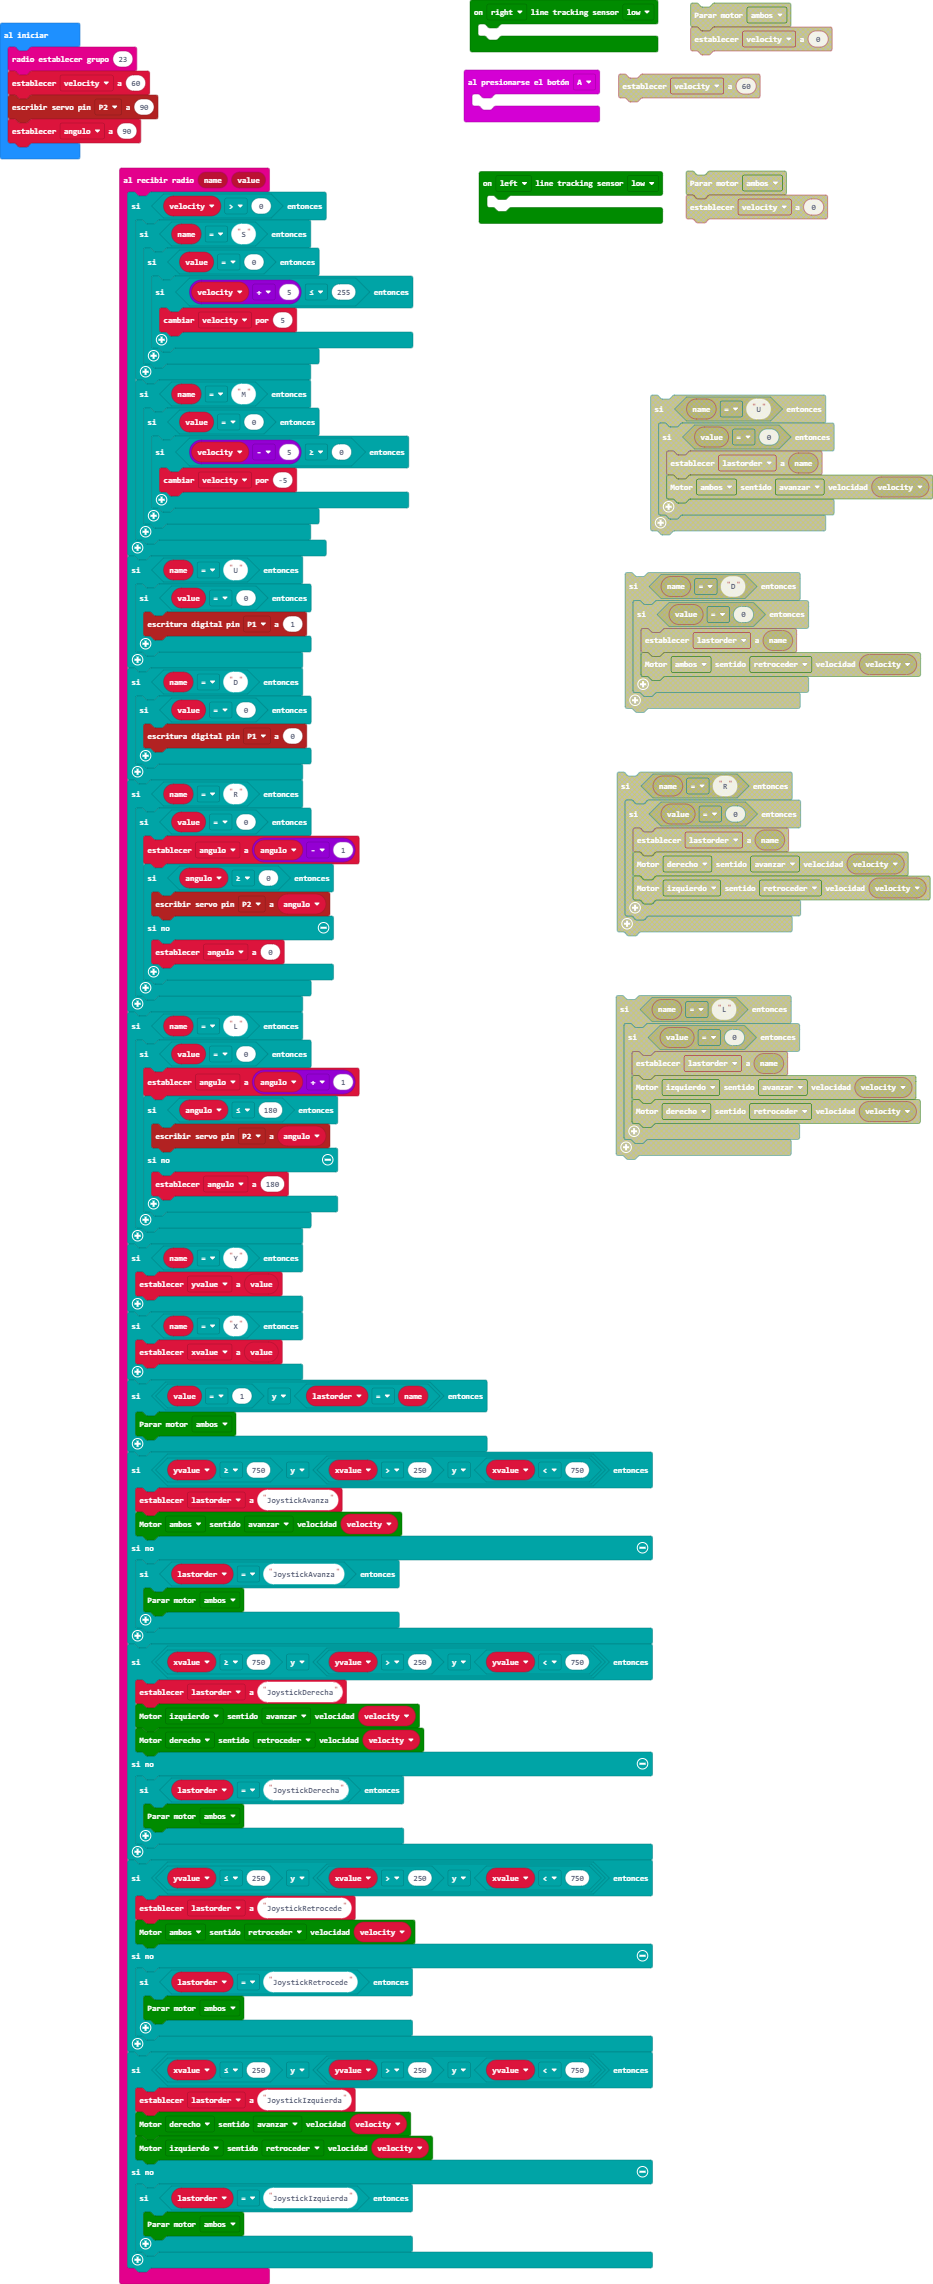
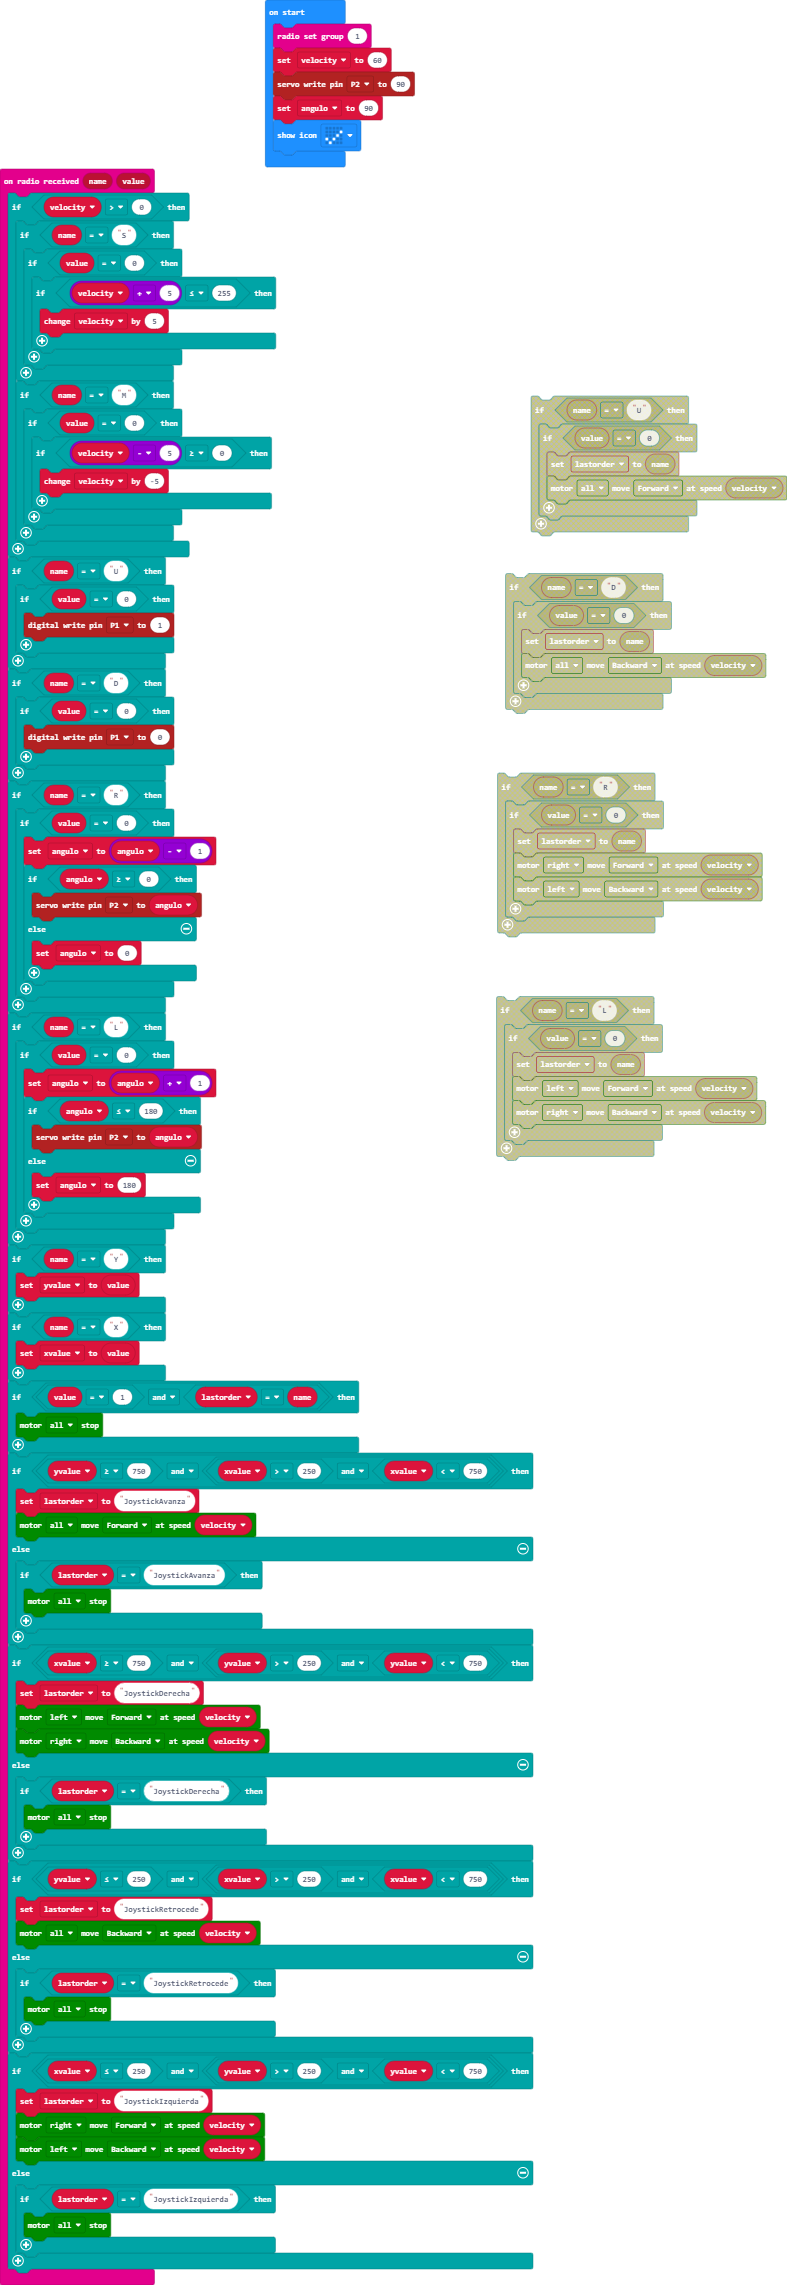
Update main.blocks, main.ts

diff --git a/main.ts b/main.ts
@@ -1,12 +1,3 @@
-maqueen.ltEvent(maqueen.Patrol1.PatrolRight, maqueen.Voltage.Low, function () {
-	
-})
-input.onButtonPressed(Button.A, function () {
-	
-})
-maqueen.ltEvent(maqueen.Patrol1.PatrolLeft, maqueen.Voltage.Low, function () {
-	
-})
 radio.onReceivedValue(function (name, value) {
     if (velocity > 0) {
         if (name == "S") {
@@ -103,7 +94,8 @@ let xvalue = 0
 let yvalue = 0
 let angulo = 0
 let velocity = 0
-radio.setGroup(23)
+radio.setGroup(1)
 velocity = 60
 pins.servoWritePin(AnalogPin.P2, 90)
 angulo = 90
+basic.showIcon(IconNames.Yes)
